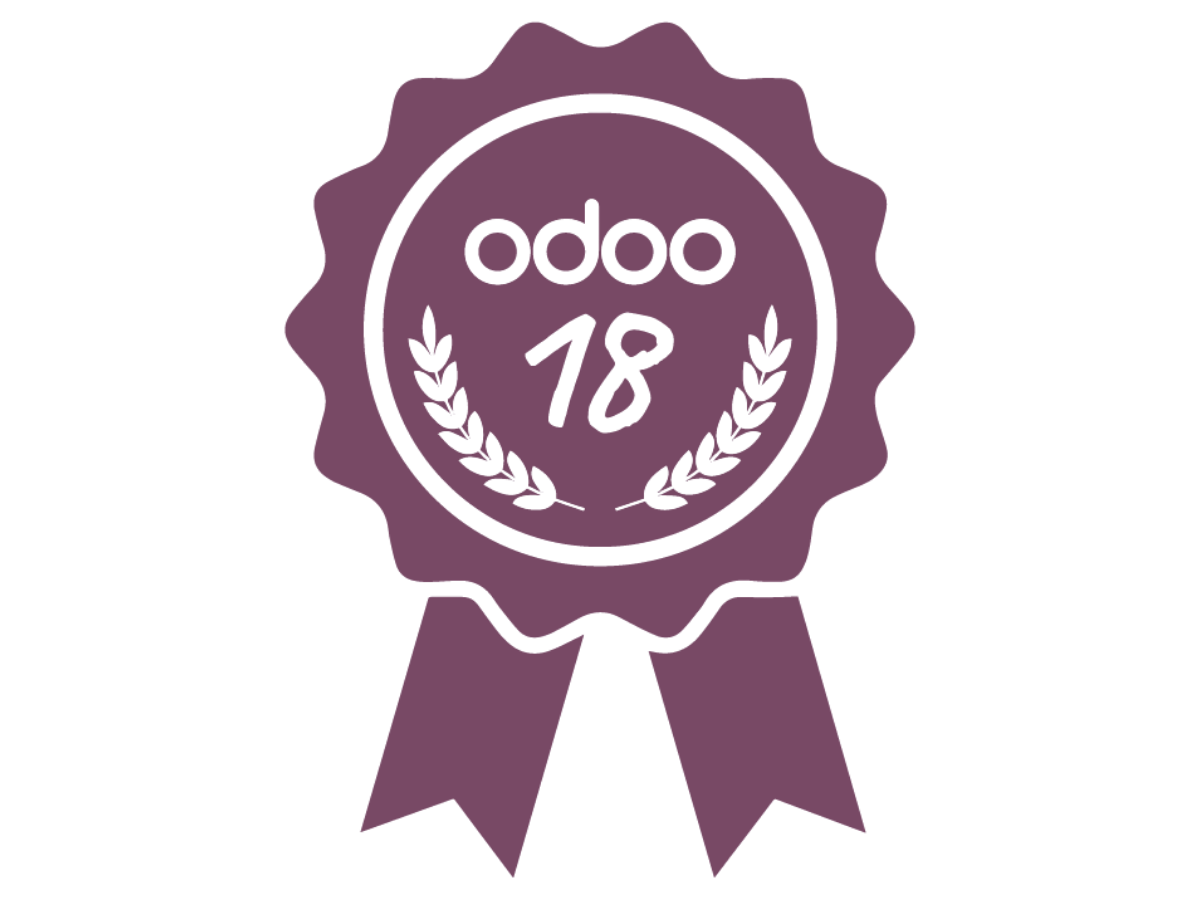
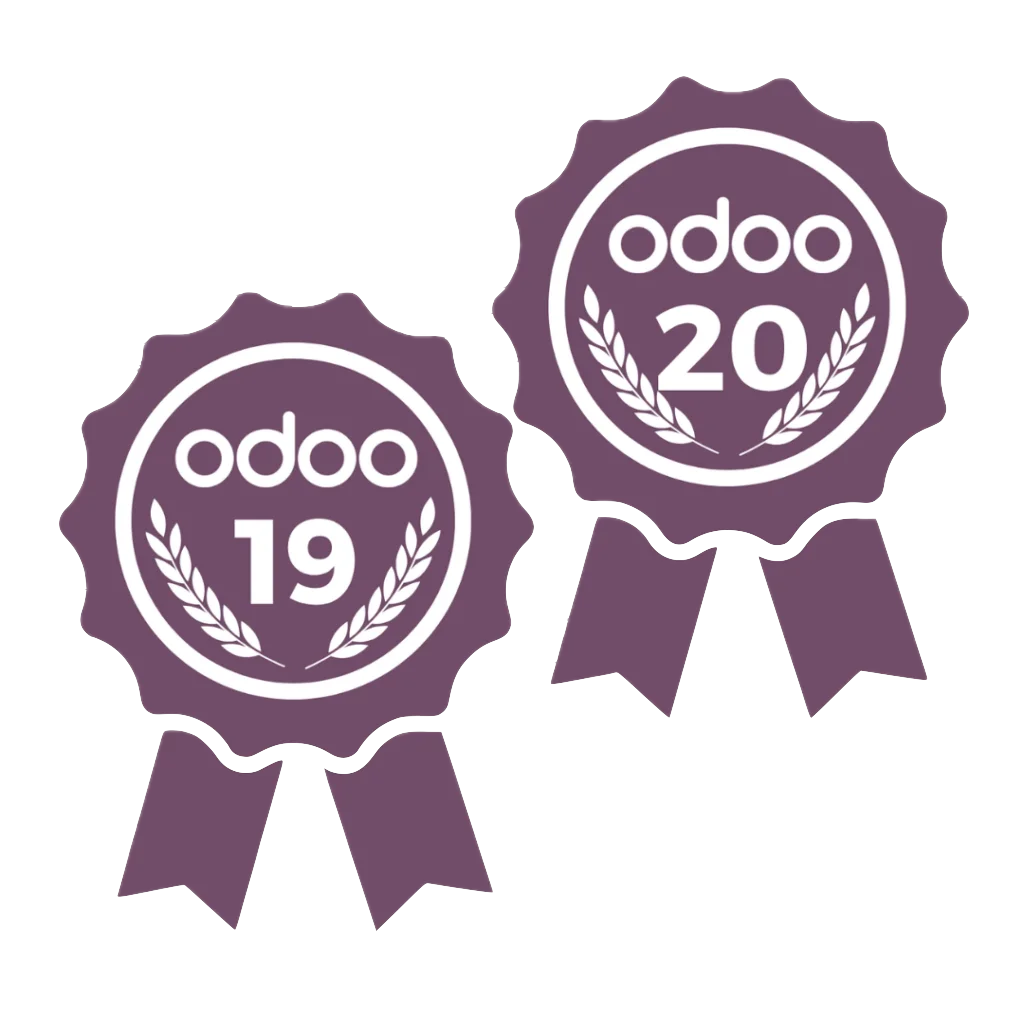
feat: news odoo20 redesing for the /implantacion-odoo page

diff --git a/frontend/src/app/[locale]/implantacion-odoo/page.client.tsx b/frontend/src/app/[locale]/implantacion-odoo/page.client.tsx
@@ -7,6 +7,7 @@ import ContactForm from "@/components/ui/contact-form.client";
 import Footer from "@/components/ui/footer";
 import { InfoCardCarousel, type InfoCardItem } from "@/components/landing/info-card-carousel";
 import { FaqAccordion } from "@/components/ui/faq-accordion";
+import { RichText } from "@/components/ui/highlight";
 import { IconOdoo } from "@/components/ui/brand-icons";
 import ReCaptchaWrapper from "../recaptcha-provider";
 import WhatsAppBubbleSkeleton from "@/components/home/whatsapp-bubble-skeleton";
@@ -68,18 +69,18 @@ export default function ImplantacionOdoo() {
     <div className="relative z-20 isolate bg-white dark:bg-neutral-900 transition-colors">
 
       {/* HERO */}
-      <section className="relative w-full overflow-x-clip py-20 md:py-24 px-6 bg-white dark:bg-neutral-900 transition-colors">
-        <div className="relative z-10 flex flex-col items-center text-center max-w-3xl mx-auto">
-          <div className="flex flex-wrap items-center justify-center gap-4">
-            <h1 className="text-neutral-900 dark:text-white text-4xl md:text-6xl font-bold leading-tight">
-              {content.title}
+      <section className="relative w-full overflow-x-clip pt-20 pb-14 md:pt-24 md:pb-16 px-6 bg-white dark:bg-neutral-900 transition-colors">
+        <div className="relative z-10 flex flex-col items-center text-center max-w-5xl mx-auto">
+          <div className="flex items-center justify-center gap-3 md:gap-8">
+            <h1 className="text-balance text-neutral-900 dark:text-white text-4xl md:text-5xl lg:text-6xl font-bold leading-tight">
+              <RichText text={content.heroTitle ?? content.title} />
             </h1>
             <Image
               src="/static/implantacion-odoo/odoo_badge.webp"
               alt={content.heroBadgeAlt}
-              width={72}
-              height={72}
-              className="h-12 w-12 md:h-16 md:w-16 rounded-full object-cover"
+              width={144}
+              height={144}
+              className="h-20 w-20 shrink-0 md:h-28 md:w-28 lg:h-32 lg:w-32 object-contain"
             />
           </div>
 
@@ -95,21 +96,25 @@ export default function ImplantacionOdoo() {
             {content.heroCtaLabel}
           </a>
         </div>
+      </section>
 
-        <div className="relative mt-12 left-1/2 w-screen -translate-x-1/2 overflow-hidden">
+      {/* HERO IMAGE */}
+      <section className="px-6 pt-10 pb-0 md:pt-14 md:pb-0 bg-neutral-100 dark:bg-neutral-800 transition-colors">
+        <div className="relative mx-auto max-w-5xl aspect-[1760/980] overflow-hidden rounded-2xl">
           <Image
             src="/static/implantacion-odoo/implantacion_odoo.webp"
             alt={content.title}
-            width={1920}
-            height={1280}
-            className="h-[420px] w-full object-cover object-center md:h-[560px] lg:h-[640px]"
+            width={1760}
+            height={998}
+            sizes="(min-width: 1024px) 1024px, 100vw"
+            className="size-full object-cover object-center"
             priority
           />
         </div>
       </section>
 
       {/* WHAT IS ODOO */}
-      <section className="py-14 md:py-16 px-6 bg-neutral-50 dark:bg-neutral-800 transition-colors">
+      <section className="py-14 md:py-16 px-6 bg-white dark:bg-neutral-900 transition-colors">
         <div className="max-w-6xl mx-auto grid md:grid-cols-[0.7fr_1.3fr] gap-16 items-center">
           <div className="flex justify-center md:justify-start">
             <div className="flex h-40 w-40 items-center justify-center rounded-3xl bg-white dark:bg-neutral-900 shadow-xl border border-neutral-200 dark:border-neutral-700 text-[#714B67]">
@@ -142,17 +147,29 @@ export default function ImplantacionOdoo() {
           </div>
         </div>
 
-        <div className="max-w-4xl mx-auto mt-12">
-          <HeroVideoDialog
-            className="w-full"
-            animationStyle="from-center"
-            videoUrl="https://youtu.be/YFJfF81_O2k?si=_r2Zg9AcZz0YjEFr"
-            thumbnailSrc="/static/implantacion-odoo/what_is_odoo_thumbnail.webp"
-            thumbnailAlt={content.sectionTitles?.whatIsOdoo}
-          />
-          <div className="mt-4 text-center">
-            <p className="mt-1 text-sm text-slate-medium dark:text-cloud-medium">
-              {messages.home?.whyUs?.videoCaptionText}
+        <div className="max-w-6xl mx-auto mt-12 grid gap-10 md:grid-cols-2">
+          <div>
+            <HeroVideoDialog
+              className="w-full"
+              animationStyle="from-center"
+              videoUrl="https://youtu.be/YFJfF81_O2k?si=_r2Zg9AcZz0YjEFr"
+              thumbnailSrc="/static/implantacion-odoo/what_is_odoo_thumbnail.webp"
+              thumbnailAlt={content.sectionTitles?.whatIsOdoo}
+            />
+            <p className="mt-4 text-center text-sm text-slate-medium dark:text-cloud-medium">
+              {content.videos?.whatIsOdooCaption}
+            </p>
+          </div>
+          <div>
+            <HeroVideoDialog
+              className="w-full"
+              animationStyle="from-center"
+              videoUrl="https://www.youtube.com/watch?v=YlmN5QcAdLs"
+              thumbnailSrc="/static/implantacion-odoo/meet_odoo_20_thumbnail.webp"
+              thumbnailAlt={content.videos?.odoo20Alt}
+            />
+            <p className="mt-4 text-center text-sm text-slate-medium dark:text-cloud-medium">
+              {content.videos?.odoo20Caption}
             </p>
           </div>
         </div>
@@ -170,28 +187,24 @@ export default function ImplantacionOdoo() {
 
 
       {/* WHY ODOO */}
-      <section className="py-14 md:py-16 px-6 bg-white dark:bg-neutral-900 transition-colors">
-        <div className="max-w-6xl mx-auto grid md:grid-cols-[1.3fr_0.7fr] gap-16 items-center">
-          <div>
-            <h2 className="text-3xl md:text-4xl font-bold mb-6 text-neutral-900 dark:text-white">
-              {content.sectionTitles?.whyOdoo}
-            </h2>
-            {content.whyOdoo?.paragraphs?.map((p: string, i: number) => (
-              <p key={i} className="text-lg text-neutral-700 dark:text-neutral-300 leading-relaxed mb-4">
-                {p}
-              </p>
-            ))}
-          </div>
-
-          <div className="flex justify-center md:justify-end">
-            <Image
-              src="/static/implantacion-odoo/why_odoo.webp"
-              alt={content.sectionTitles?.whyOdoo ?? ""}
-              width={480}
-              height={360}
-              className="w-full max-w-sm rounded-2xl border border-neutral-200 shadow-xl object-cover dark:border-neutral-700"
-            />
-          </div>
+      <section className="pb-14 md:pb-16 bg-white dark:bg-neutral-900 transition-colors">
+        <Image
+          src="/static/implantacion-odoo/why_odoo.webp"
+          alt={content.sectionTitles?.whyOdoo ?? ""}
+          width={1580}
+          height={585}
+          sizes="100vw"
+          className="h-auto w-full"
+        />
+        <div className="max-w-6xl mx-auto px-6 pt-14 md:pt-16">
+          <h2 className="text-3xl md:text-4xl font-bold mb-6 text-neutral-900 dark:text-white">
+            {content.sectionTitles?.whyOdoo}
+          </h2>
+          {content.whyOdoo?.paragraphs?.map((p: string, i: number) => (
+            <p key={i} className="text-lg text-neutral-700 dark:text-neutral-300 leading-relaxed mb-4">
+              {p}
+            </p>
+          ))}
         </div>
       </section>
 
@@ -263,7 +276,7 @@ export default function ImplantacionOdoo() {
       {/* VERIFACTU + PRICING */}
       {content.verifactu && (
         <section className="py-14 md:py-16 px-6 bg-white dark:bg-neutral-900 transition-colors">
-          <div className="max-w-6xl mx-auto grid gap-10 md:grid-cols-[1.1fr_0.9fr] md:items-start">
+          <div className="max-w-6xl mx-auto grid gap-10 md:grid-cols-2 md:items-start">
             <div>
               <h2 className="text-3xl md:text-4xl font-bold mb-6 text-neutral-900 dark:text-white">
                 {content.verifactu.title}
@@ -284,20 +297,20 @@ export default function ImplantacionOdoo() {
             </div>
 
             <div>
-              <h3 className="text-xl font-bold mb-4 text-neutral-900 dark:text-white">
+              <h3 className="text-2xl font-bold mb-4 text-neutral-900 dark:text-white">
                 {content.verifactu.startTitle}
               </h3>
               <div className="overflow-hidden border border-[#d6d1ca] bg-white">
                 <table className="w-full table-fixed border-collapse text-left">
                   <thead>
                     <tr className="bg-clay-fill text-white">
-                      <th className="w-[46%] border-r border-white/40 px-2 py-3 text-center text-xs font-bold md:text-sm">
+                      <th className="w-[46%] border-r border-white/40 px-3 py-4 text-center text-sm font-bold md:text-base">
                         {pricingTable.headers[0]}
                       </th>
-                      <th className="w-[28%] border-r border-white/40 px-2 py-3 text-center text-xs font-bold md:text-sm">
+                      <th className="w-[28%] border-r border-white/40 px-3 py-4 text-center text-sm font-bold md:text-base">
                         {pricingTable.headers[1]}
                       </th>
-                      <th className="w-[26%] px-2 py-3 text-center text-xs font-bold md:text-sm">
+                      <th className="w-[26%] px-3 py-4 text-center text-sm font-bold md:text-base">
                         {pricingTable.headers[2]}
                       </th>
                     </tr>
@@ -305,9 +318,9 @@ export default function ImplantacionOdoo() {
                   <tbody>
                     {pricingTable.rows.map((row: string[], i: number) => (
                       <tr key={row[0]} className={i % 2 ? "bg-[#f8e2d1]" : "bg-white"}>
-                        <td className="border-r border-[#ddd6cf] px-2 py-3 text-xs font-bold text-black md:text-sm">{row[0]}</td>
-                        <td className="border-r border-[#ddd6cf] px-2 py-3 text-center text-xs font-bold text-black md:text-sm">{row[1]}</td>
-                        <td className="px-2 py-3 text-center text-xs text-black md:text-sm">{row[2]}</td>
+                        <td className="border-r border-[#ddd6cf] px-3 py-5 text-sm font-bold text-black md:text-base">{row[0]}</td>
+                        <td className="border-r border-[#ddd6cf] px-3 py-5 text-center text-sm font-bold text-black md:text-base">{row[1]}</td>
+                        <td className="px-3 py-5 text-center text-sm text-black md:text-base">{row[2]}</td>
                       </tr>
                     ))}
                   </tbody>
@@ -316,14 +329,14 @@ export default function ImplantacionOdoo() {
               <div className="mt-6 flex flex-wrap gap-3">
                 <a
                   href="#formulario"
-                  className="px-6 py-3 rounded-xl font-semibold text-white shadow-lg transition hover:scale-105"
+                  className="px-8 py-4 rounded-xl font-semibold text-white shadow-lg transition hover:scale-105"
                   style={{ backgroundColor: "var(--swatch--clay-fill)" }}
                 >
                   {pricingTable.ctaLabel}
                 </a>
                 <a
                   href="#formulario"
-                  className="px-6 py-3 rounded-xl font-semibold border border-neutral-300 text-neutral-900 transition hover:scale-105 dark:border-neutral-600 dark:text-white"
+                  className="px-8 py-4 rounded-xl font-semibold border border-neutral-300 text-neutral-900 transition hover:scale-105 dark:border-neutral-600 dark:text-white"
                 >
                   {content.verifactu.ctaLabel}
                 </a>
@@ -336,7 +349,7 @@ export default function ImplantacionOdoo() {
       {/* TECHNOLOGY FAQS */}
       {content.technologyFaqs?.length > 0 && (
         <FaqAccordion
-          className="bg-white dark:bg-neutral-900 transition-colors"
+          className="bg-neutral-50 dark:bg-neutral-800 transition-colors"
           title={content.sectionTitles?.technologyFaqs}
           description={content.sectionTitles?.technologyFaqsSubtitle}
           items={content.technologyFaqs.map(

diff --git a/frontend/src/app/[locale]/faq/faq-data.ts b/frontend/src/app/[locale]/faq/faq-data.ts
@@ -633,8 +633,8 @@ export const faqEntries: FaqEntry[] = [
       en: "Does the Odoo implementation include VeriFactu or is it charged separately?",
     },
     answer: {
-      es: "Depende de tu punto de partida. La implantación completa de Odoo 18 con VeriFactu incluido cuesta 1.160€ + IVA. Si prefieres implantar Odoo 18 sin VeriFactu, son 860€ + IVA. Y si ya tienes Odoo 18 o superior y solo necesitas la configuración de VeriFactu, son 400€ + IVA.",
-      en: "It depends on your starting point. The full Odoo 18 implementation with VeriFactu included costs €1,160 + VAT. If you prefer Odoo 18 without VeriFactu, it is €860 + VAT. And if you already have Odoo 18 or later and only need the VeriFactu setup, it is €400 + VAT.",
+      es: "Depende de tu punto de partida. La implantación completa de Odoo 20 con VeriFactu incluido cuesta 1.160€ + IVA. Si prefieres implantar Odoo 20 sin VeriFactu, son 860€ + IVA. Y si ya tienes Odoo 20 o superior y solo necesitas la configuración de VeriFactu, son 400€ + IVA.",
+      en: "It depends on your starting point. The full Odoo 20 implementation with VeriFactu included costs €1,160 + VAT. If you prefer Odoo 20 without VeriFactu, it is €860 + VAT. And if you already have Odoo 20 or later and only need the VeriFactu setup, it is €400 + VAT.",
     },
   },
   {
@@ -642,12 +642,12 @@ export const faqEntries: FaqEntry[] = [
     category: "odoo",
     tag: { es: "VeriFactu", en: "VeriFactu" },
     question: {
-      es: "¿Qué pasa si mi negocio ya usa Odoo 18 y solo necesito VeriFactu?",
-      en: "What if my business already uses Odoo 18 and I only need VeriFactu?",
+      es: "¿Qué pasa si mi negocio ya usa Odoo 20 y solo necesito VeriFactu?",
+      en: "What if my business already uses Odoo 20 and I only need VeriFactu?",
     },
     answer: {
-      es: "Configuramos VeriFactu sobre tu instalación de Odoo 18 o superior por 400€ + IVA, sin necesidad de una implantación completa nueva. Si tu versión de Odoo es anterior a la 18, dínoslo en el formulario y te decimos qué hace falta antes.",
-      en: "We set up VeriFactu on your Odoo 18 or later installation for €400 + VAT, with no need for a new full implementation. If your Odoo version is older than 18, tell us in the form and we'll let you know what is needed first.",
+      es: "Configuramos VeriFactu sobre tu instalación de Odoo 20 o superior por 400€ + IVA, sin necesidad de una implantación completa nueva. Si tu versión de Odoo es anterior a la 20, dínoslo en el formulario y te decimos qué hace falta antes.",
+      en: "We set up VeriFactu on your Odoo 20 or later installation for €400 + VAT, with no need for a new full implementation. If your Odoo version is older than 20, tell us in the form and we'll let you know what is needed first.",
     },
   },
   {

diff --git a/frontend/src/app/[locale]/implantacion-odoo/page.tsx b/frontend/src/app/[locale]/implantacion-odoo/page.tsx
@@ -16,11 +16,11 @@ export async function generateMetadata({
     locale,
     path: `/${slug}`,
     title: isEs
-      ? "Implantación de Odoo 18 para empresas y pymes"
-      : "Odoo 18 implementation for businesses & SMEs",
+      ? "Implantación de Odoo 20 para empresas y pymes"
+      : "Odoo 20 implementation for businesses & SMEs",
     description: isEs
-      ? "Implantamos y actualizamos Odoo 18: análisis funcional, migración de datos, validación técnica y entrega de un entorno operativo, con base VeriFactu España."
-      : "We implement and upgrade Odoo 18: functional analysis, data migration, technical validation and delivery of a live environment, with VeriFactu base setup.",
+      ? "Implantamos y actualizamos Odoo 20: análisis funcional, migración de datos, validación técnica y entrega de un entorno operativo, con base VeriFactu España."
+      : "We implement and upgrade Odoo 20: functional analysis, data migration, technical validation and delivery of a live environment, with VeriFactu base setup.",
     image: "/static/backgrounds/odoo_background.webp",
   });
 }

diff --git a/frontend/src/components/home/hero-video-dialog.tsx b/frontend/src/components/home/hero-video-dialog.tsx
@@ -112,7 +112,7 @@ export function HeroVideoDialog({
 
   if (!youtubeData || !resolvedThumbnail) return null
 
-  const embedSrc = `${getYoutubeEmbedUrl(youtubeData)}?autoplay=1&rel=0`
+  const embedSrc = `${getYoutubeEmbedUrl(youtubeData)}?autoplay=1&playsinline=1&enablejsapi=1&rel=0`
   const watchUrl = getYoutubeWatchUrl(youtubeData)
 
   const closeModal = () => setIsVideoOpen(false)
@@ -172,6 +172,12 @@ export function HeroVideoDialog({
                     title={title}
                     className="mt-0 size-full rounded-2xl"
                     allowFullScreen
+                    onLoad={(e) =>
+                      e.currentTarget.contentWindow?.postMessage(
+                        JSON.stringify({ event: "command", func: "playVideo", args: [] }),
+                        "https://www.youtube-nocookie.com",
+                      )
+                    }
                     allow="accelerometer; autoplay; clipboard-write; encrypted-media; gyroscope; picture-in-picture; web-share"
                   ></iframe>
                 ) : (

diff --git a/frontend/src/app/[locale]/page.tsx b/frontend/src/app/[locale]/page.tsx
@@ -25,8 +25,8 @@ export async function generateMetadata({
   return {
     ...base,
     keywords: isEs
-      ? ["automatización empresarial IA", "automatización con IA Sevilla", "agentes de IA para empresas", "automatización n8n", "agente de voz IA", "automatización de facturas", "implantación Odoo 18", "formación IA para PYMES", "consultora de software Sevilla"]
-      : ["enterprise AI automation", "AI automation Seville", "AI agents for business", "n8n automation", "AI voice agent", "invoice automation", "Odoo 18 implementation", "software consultancy Spain"],
+      ? ["automatización empresarial IA", "automatización con IA Sevilla", "agentes de IA para empresas", "automatización n8n", "agente de voz IA", "automatización de facturas", "implantación Odoo 20", "formación IA para PYMES", "consultora de software Sevilla"]
+      : ["enterprise AI automation", "AI automation Seville", "AI agents for business", "n8n automation", "AI voice agent", "invoice automation", "Odoo 20 implementation", "software consultancy Spain"],
   };
 }
 

diff --git a/frontend/src/app/[locale]/servicios/page.tsx b/frontend/src/app/[locale]/servicios/page.tsx
@@ -18,8 +18,8 @@ export async function generateMetadata({
       ? "Servicios de automatización con IA para empresas"
       : "AI automation services for businesses",
     description: isEs
-      ? "Servicios y productos de automatización con IA: agentes de voz, procesos con n8n, automatización de facturas e informes e implantación de Odoo 18."
-      : "AI automation services and products: voice agents, n8n process automation, invoice and report automation, and Odoo 18 implementation.",
+      ? "Servicios y productos de automatización con IA: agentes de voz, procesos con n8n, automatización de facturas e informes e implantación de Odoo 20."
+      : "AI automation services and products: voice agents, n8n process automation, invoice and report automation, and Odoo 20 implementation.",
     image: "/static/backgrounds/services_background.webp",
   });
 }

diff --git a/frontend/src/app/[locale]/faq/page.tsx b/frontend/src/app/[locale]/faq/page.tsx
@@ -23,8 +23,8 @@ export async function generateMetadata({
       ? "Preguntas frecuentes sobre automatización con IA"
       : "Frequently asked questions about AI automation",
     description: isEs
-      ? "Respuestas a las dudas más habituales sobre agentes de IA, automatización con n8n, facturas, informes, Odoo 18 y formación para empresas."
-      : "Answers to the most common questions about AI agents, n8n automation, invoicing, reporting, Odoo 18 and training for businesses.",
+      ? "Respuestas a las dudas más habituales sobre agentes de IA, automatización con n8n, facturas, informes, Odoo 20 y formación para empresas."
+      : "Answers to the most common questions about AI agents, n8n automation, invoicing, reporting, Odoo 20 and training for businesses.",
     image: "/static/backgrounds/services_background.webp",
   });
 }
